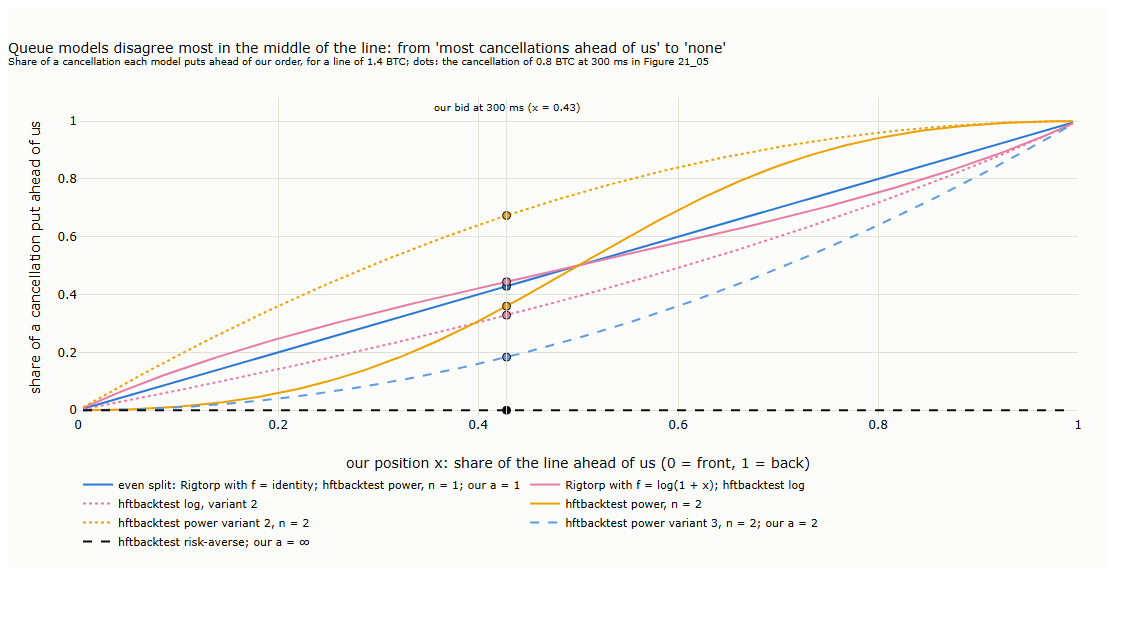
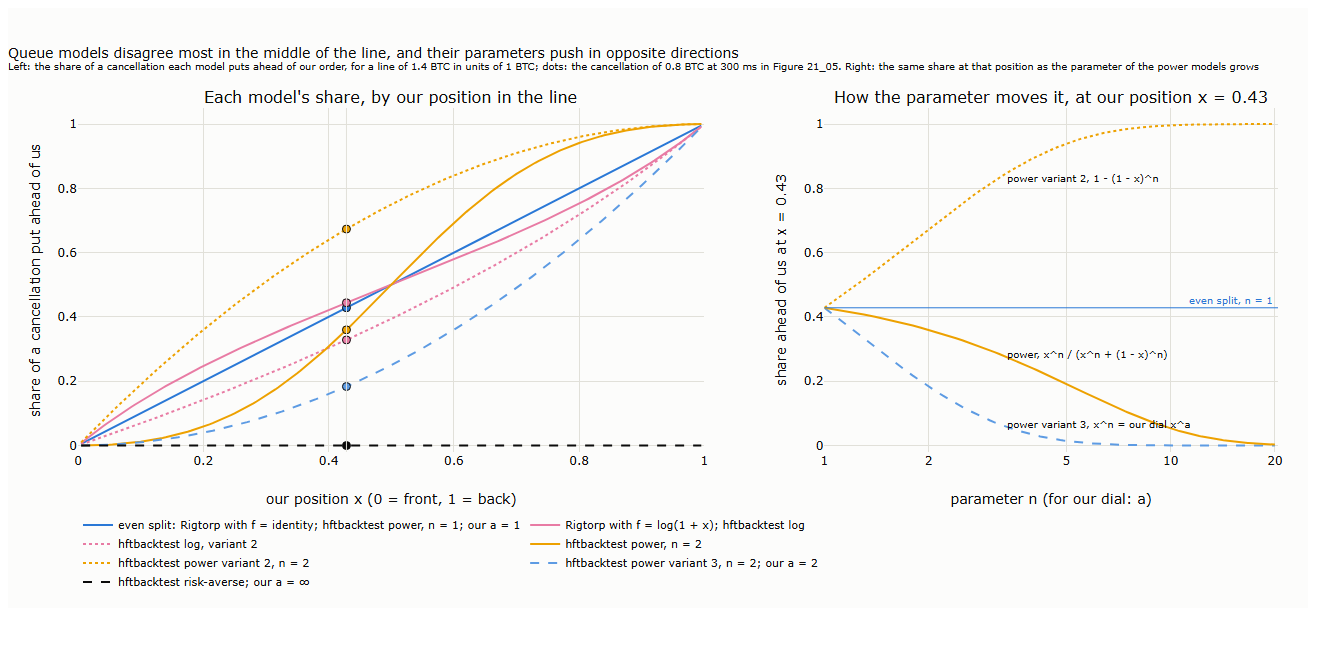
Lecture 21 §2.3: parameters of the queue models, replication check, join fix
- How each parameter moves the split (our a = hftbacktest power variant 3 n;
  power n; power variant 2 n; the unit of size as the hidden parameter of the
  log models), with a parameter panel in figure 21_06 and a units table.
- Replication on 3,000 random sequences (scripts/checks/test_models.py): a = 1
  equals Rigtorp (identity) and a = inf hftbacktest risk-averse in every case;
  x^a differs from hftbacktest power variant 3 in 1.8% of cases only because
  hftbacktest measures the size behind before the trades.
- l21.Bid: an order now joins behind the last update minus the sells at its
  price since (as stated in the text); checked on the hand example
  (scripts/checks/test_bid.py). §1 results recomputed: unchanged.

diff --git a/lectures/21-replaying-the-exchange/scripts/l21_s2_cards.py b/lectures/21-replaying-the-exchange/scripts/l21_s2_cards.py
@@ -187,18 +187,30 @@ MODELS = [  # (label, share ahead as a function of (front, back), colour, dash)
     ("hftbacktest power variant 3, n = 2; our a = 2", lambda f, b: (f / (f + b)) ** 2, "#5d9be3", "dash"),
     ("hftbacktest risk-averse; our a = ∞", lambda f, b: 0.0 if b > 0 else 1.0, INK, "dash"),
 ]
-fig = go.Figure()
+fig = make_subplots(rows=1, cols=2, column_widths=[0.58, 0.42], horizontal_spacing=0.1,
+                    subplot_titles=("Each model's share, by our position in the line", "How the parameter moves it, at our position x = 0.43"))
 xs = [i / 200 for i in range(1, 200)]
 for lab, fn, c, dash in MODELS:
-    fig.add_scatter(x=xs, y=[fn(x * LINE, (1 - x) * LINE) for x in xs], mode="lines", line=dict(color=c, width=2, dash=dash), name=lab)
+    fig.add_scatter(x=xs, y=[fn(x * LINE, (1 - x) * LINE) for x in xs], mode="lines", line=dict(color=c, width=2, dash=dash), name=lab, row=1, col=1)
     v = fn(0.6, 0.8)
-    fig.add_scatter(x=[0.6 / 1.4], y=[v], mode="markers", marker=dict(size=8, color=c, line=dict(width=1, color=INK)), showlegend=False)
+    fig.add_scatter(x=[0.6 / 1.4], y=[v], mode="markers", marker=dict(size=8, color=c, line=dict(width=1, color=INK)), showlegend=False, row=1, col=1)
     print(f"{lab}: share ahead {v:.3f}, size ahead after {0.6 - v * 0.8 + min(0.8 - (1 - v) * 0.8, 0):.3f}")
-fig.add_vline(x=0.6 / 1.4, line=dict(color=GRID, width=1))
-fig.add_annotation(x=0.6 / 1.4, y=1.02, text="our bid at 300 ms (x = 0.43)", showarrow=False, yanchor="bottom", font=dict(size=10, color=INK))
-fig.update_xaxes(title_text="our position x: share of the line ahead of us (0 = front, 1 = back)", range=[0, 1])
-fig.update_yaxes(title_text="share of a cancellation put ahead of us", range=[-0.02, 1.08])
-fig.update_layout(title="Queue models disagree most in the middle of the line: from 'most cancellations ahead of us' to 'none'"
-                        "<br><sup>Share of a cancellation each model puts ahead of our order, for a line of 1.4 BTC; dots: the cancellation of 0.8 BTC at 300 ms in Figure 21_05</sup>",
-                  height=560, width=1100, margin=dict(t=90, l=70, r=30, b=60), legend=dict(orientation="h", y=-0.17, x=0, font=dict(size=11)))
+fig.add_vline(x=0.6 / 1.4, line=dict(color=GRID, width=1), row=1, col=1)
+fig.update_xaxes(title_text="our position x (0 = front, 1 = back)", range=[0, 1], row=1, col=1)
+fig.update_yaxes(title_text="share of a cancellation put ahead of us", range=[-0.02, 1.05], row=1, col=1)
+# right (annotations on a log axis take log10 of x): the share at x = 0.43 against the parameter n (or a) of the three power families
+X0 = 0.6 / 1.4; ns = [1 + i / 10 for i in range(0, 191)]
+for lab, fn, c, dash in (("power variant 3, x^n = our dial x^a", lambda n: X0 ** n, "#5d9be3", "dash"),
+                         ("power, x^n / (x^n + (1 - x)^n)", lambda n: X0 ** n / (X0 ** n + (1 - X0) ** n), SERIES[4], "solid"),
+                         ("power variant 2, 1 - (1 - x)^n", lambda n: 1 - (1 - X0) ** n, SERIES[4], "dot")):
+    fig.add_scatter(x=ns, y=[fn(n) for n in ns], mode="lines", line=dict(color=c, width=2, dash=dash), showlegend=False, row=1, col=2)
+    fig.add_annotation(x=math.log10(3.2), y=fn(3.2), text=lab, showarrow=False, xanchor="left", xshift=6, font=dict(size=10, color=INK), row=1, col=2)
+fig.add_hline(y=X0, line=dict(color=SERIES[0], width=1), row=1, col=2)
+fig.add_annotation(x=math.log10(20), y=X0, text="even split, n = 1", showarrow=False, xanchor="right", yanchor="bottom", font=dict(size=10, color=SERIES[0]), row=1, col=2)
+fig.update_xaxes(title_text="parameter n (for our dial: a)", type="log", tickvals=[1, 2, 5, 10, 20], range=[0, 1.31], row=1, col=2)
+fig.update_yaxes(title_text="share ahead of us at x = 0.43", range=[-0.02, 1.05], row=1, col=2)
+fig.update_layout(title="Queue models disagree most in the middle of the line, and their parameters push in opposite directions"
+                        "<br><sup>Left: the share of a cancellation each model puts ahead of our order, for a line of 1.4 BTC in units of 1 BTC; dots: the cancellation "
+                        "of 0.8 BTC at 300 ms in Figure 21_05. Right: the same share at that position as the parameter of the power models grows</sup>",
+                  height=600, width=1300, margin=dict(t=100, l=70, r=30, b=60), legend=dict(orientation="h", y=-0.17, x=0, font=dict(size=11)))
 save_figure(fig, L21.PREFIX + "21_06_queue_models", FIG)

diff --git a/lectures/21-replaying-the-exchange/scripts/checks/test_models.py b/lectures/21-replaying-the-exchange/scripts/checks/test_models.py
@@ -1,0 +1,69 @@
+"""Our queue rule (l21.Bid) against the published update rules, written literally, on random event sequences at one price.
+hftbacktest queue.rs: trade: front -= qty; cum += qty. Depth change: chg = prev - new - cum; cum = 0; if chg < 0: front = min(front, new);
+else: prob = share BEHIND; est = front - (1 - prob) chg + min(back - prob chg, 0); front = min(est, new). RiskAverse: front = min(front, new).
+Fill when a trade leaves front < 0. PowerProbQueueFunc3: prob = 1 - (front / (front + back)) ** n.
+Rigtorp (2013): fills V = max(V + dQ, 0); other decreases V = max(V + p dQ, 0), p = f(V) / (f(V) + f(max(Q - S - V, 0))), f = identity."""
+import sys, random, numpy as np, polars as pl
+sys.path.insert(0, sys.argv[1]); import l21 as L21
+P = 1_000_000
+
+
+def hft(events, q0, n, after_trades=False):
+    front, prev, cum = q0, q0, 0.0
+    for t, kind, v in events:
+        if kind == "t":
+            front -= v; cum += v
+            if front < -1e-12: return t
+        else:
+            chg = prev - v - cum; cum_seen = cum; cum = 0.0
+            if chg < 0: front = min(front, v)
+            else:
+                back = prev - front - (cum_seen if after_trades else 0.0)
+                if n == "ra": front = min(front, v)
+                else:
+                    prob = 1 - (front / (front + back)) ** n if front + back > 0 else 1.0
+                    front = min(front - (1 - prob) * chg + min(back - prob * chg, 0), v)
+            prev = v
+    return None
+
+
+def rigtorp(events, q0):
+    """V: size ahead; Q: size displayed after the trades so far (our order not in it, so Q - S - V = Q - V)."""
+    V, Q = q0, q0
+    for t, kind, v in events:
+        if kind == "t":
+            if v > V + 1e-12: return t
+            V = max(V - v, 0); Q -= v
+        else:
+            dQ = v - Q
+            if dQ < 0:
+                p = V / (V + max(Q - V, 0)) if Q > 0 else 1.0
+                V = max(V + p * dQ, 0)
+            Q = v
+    return None
+
+
+random.seed(1); bad = {1.0: 0, 2.0: 0, 5.0: 0, np.inf: 0, "rig": 0}; bad2 = {1.0: 0, 2.0: 0, 5.0: 0}; N = 3000
+for k in range(N):
+    q0 = round(random.uniform(0.2, 5), 3); level, t, ev = q0, 100, []
+    for _ in range(random.randint(3, 25)):
+        t += random.randint(1, 99)
+        if random.random() < 0.5:
+            s = round(random.uniform(0.001, 0.6) * random.choice([0.2, 1, 3]), 3); ev.append((t, "t", s)); level -= s
+        else:
+            t = (t // 100 + 1) * 100; level = max(round(level + random.uniform(-1.5, 1.2), 3), 0.0); ev.append((t, "u", level))
+        if level < 0: break
+    trades = [(t, s) for t, k_, s in ev if k_ == "t"]; ups = [(t, s) for t, k_, s in ev if k_ == "u"]
+    B = pl.DataFrame({"cts": [0] + [t for t, _ in ups], "tick": [P] * (len(ups) + 1), "size": [q0] + [s for _, s in ups]}, schema={"cts": pl.Int64, "tick": pl.Int64, "size": pl.Float64})
+    T = pl.DataFrame({"ts": [t for t, _ in trades], "side": [-1] * len(trades), "tick": [P] * len(trades), "size": [s for _, s in trades]},
+                     schema={"ts": pl.Int64, "side": pl.Int64, "tick": pl.Int64, "size": pl.Float64})
+    S = pl.DataFrame({"ts": [0], "bid": [P], "ask": [P + 1]})
+    # keep only events up to the first level that the trades would push below zero (inconsistent data)
+    for a in (1.0, 2.0, 5.0, np.inf):
+        ours = L21.Bid(B, T, S, 40, L=10, a=a, hold=10_000).q2
+        ref = hft(ev, q0, "ra" if a == np.inf else a)
+        if ours != ref: bad[a] += 1
+        if a != np.inf and ours != hft(ev, q0, a, after_trades=True): bad2[a] += 1
+    if L21.Bid(B, T, S, 40, L=10, a=1.0, hold=10_000).q2 != rigtorp(ev, q0): bad["rig"] += 1
+print(f"{N} random sequences; disagreements with the code as published:", bad)
+print("with hftbacktest's size behind measured after the trades:", bad2)

diff --git a/lectures/21-replaying-the-exchange/scripts/l21.py b/lectures/21-replaying-the-exchange/scripts/l21.py
@@ -59,13 +59,14 @@ class Bid:
         lv = np.nonzero(btk == self.p)[0]; k0 = np.searchsorted(bc[lv], self.ta, "right") - 1
         self.ok = k0 >= 0
         if not self.ok: return
-        self.q = float(bsz[lv[k0]])                                                # displayed size when we join
-        ups = lv[k0 + 1:]; ups = ups[bc[ups] <= self.ta + hold]
         tt, ts_, tk, tz = (T[c].to_numpy() for c in ("ts", "side", "tick", "size"))
+        pre = float(tz[(tt > bc[lv[k0]]) & (tt <= self.ta) & (ts_ == -1) & (tk == self.p)].sum())   # sold at our price since that update
+        self.q = max(float(bsz[lv[k0]]) - pre, 0.0)                               # displayed size when we join: last update minus trades since
+        ups = lv[k0 + 1:]; ups = ups[bc[ups] <= self.ta + hold]
         tr = np.nonzero((tt > self.ta) & (tt <= self.ta + hold) & (ts_ == -1) & (tk <= self.p))[0]
         self.q0 = int(tt[tr[0]]) if len(tr) else None
         thr = [j for j in tr if tk[j] < self.p]; self.q1 = int(tt[thr[0]]) if thr else None
-        self.q2 = None; V, qlev, tsum = self.q, self.q, 0.0; path = [(self.ta, V, qlev)]
+        self.q2 = None; V, qlev, tsum = self.q, float(bsz[lv[k0]]), pre; path = [(self.ta, V, self.q)]
         for t, kind, j in sorted([(tt[j], 0, j) for j in tr] + [(bc[u], 1, u) for u in ups]):
             if kind == 0:
                 if tk[j] < self.p or tz[j] > V: self.q2 = int(t); break

diff --git a/lectures/21-replaying-the-exchange/scripts/checks/test_bid.py b/lectures/21-replaying-the-exchange/scripts/checks/test_bid.py
@@ -1,0 +1,12 @@
+"""Check the replay (l21.Bid) on the invented example of cards 2.1 and 2.3, where the answers are known by hand."""
+import sys, numpy as np, polars as pl
+sys.path.insert(0, sys.argv[1]); import l21 as L21
+P = 1_000_000                                                           # USD 100,000.0 in ticks
+B = pl.DataFrame({"cts": [0, 100, 200, 300], "tick": [P] * 4, "size": [2.0, 1.2, 1.6, 0.6]})
+T = pl.DataFrame({"ts": [30, 70, 130, 250, 340, 420], "side": [-1] * 6, "tick": [P] * 5 + [P - 1], "size": [0.3, 0.2, 0.4, 0.2, 0.5, 0.3]})
+S = pl.DataFrame({"ts": [0, 100, 200, 300], "bid": [P] * 4, "ask": [P + 1] * 4})
+expect = {1.0: 340, 2.0: 340, np.inf: 420}
+for a, tf in expect.items():
+    o = L21.Bid(B, T, S, 10, L=50, a=a, hold=1000)
+    path = [(t, round(v, 3)) for t, v, _ in o.path]
+    print(f"a={a}: joined behind {o.q} (hand: 1.7), q0 {o.q0} (hand: 70), q2 {o.q2} (hand: {tf}), q1 {o.q1} (hand: 420)", path)

diff --git a/lectures/21-replaying-the-exchange/lecture.md b/lectures/21-replaying-the-exchange/lecture.md
@@ -176,10 +176,30 @@ The touch rule fills the bid 270 ms before any version of the line would, while 
 <sub><b>How to read the table.</b> Ahead and behind: the size in the line in front of our order and after it, in BTC; $`x`$ = ahead / (ahead + behind), our position (0 at the front, 1 at the back). Rigtorp (2013) writes the share ahead as $`p = f(\text{ahead}) / (f(\text{ahead}) + f(\text{behind}))`$ with $`f`$ any increasing function, naming the identity and $`\ln(1 + x)`$. hftbacktest (queue.rs) writes the share behind, $`1 - p`$; its power functions are $`f(x) = x^n`$, its variants 2 and 3 normalise differently. hftbacktest, like our replay, takes the excess from ahead of us when a cancellation is larger than the size behind, and never lets the size ahead exceed the size displayed; Rigtorp (2013) states no such rule. Last column: the cancellation of 0.8 BTC at 300 ms in Figure 21_05, with 0.6 BTC ahead and 0.8 behind.</sub>
 
 ![The queue models of the literature side by side: the share of a cancellation each puts ahead of our order, by position in the line](figures/21_06_queue_models.png)
-<sub><b>How to read the figure.</b> For a line of 1.4 BTC, the share of a cancellation each model of the table puts ahead of our order, against our position $`x`$. Lines above the even split (blue) let our order advance faster than an even split; lines below hold it back. The dots mark the cancellation at 300 ms of Figure 21_05.</sub>
+<sub><b>How to read the figure.</b> <b>Left:</b> for a line of 1.4 BTC counted in BTC, the share of a cancellation each model of the table puts ahead of our order, against our position $`x`$. Lines above the even split (blue) let our order advance faster than an even split; lines below hold it back. The dots mark the cancellation at 300 ms of Figure 21_05. <b>Right:</b> at that position, $`x = 0.43`$, the share ahead under the three power models as their parameter $`n`$ grows from 1 to 20 (log scale); for our dial, $`n`$ is $`a`$.</sub>
 
-On the same cancellation the models leave between 0.06 and 0.60 BTC ahead of our order, a factor of ten. Two properties separate them. The first is the leaning: an even split; towards whichever side of us is longer (hftbacktest power), or shorter (log); towards the front (power variant 2, optimistic for us); or towards the back (power variant 3 and risk-averse, cautious for us). The second is units: the log models give different answers if size is counted in BTC or in contracts, because $`\ln(1 + x)`$ is not proportional; the power models and our dial depend only on the position $`x`$.
+On the same cancellation the models leave between 0.06 and 0.60 BTC ahead of our order, a factor of ten. What separates them is their leaning: an even split; towards whichever side of us is longer (hftbacktest power) or shorter (log); towards the front, which is optimistic for us (power variant 2); or towards the back, which is cautious (power variant 3 and risk-averse).
 
-None of these formulas is derived from the behaviour of traders; each is a convenient shape, and Rigtorp (2013) recommends estimating $`f`$ from one's own fills. Evidence comes only from order-by-order data. Databento (2025) used such data for CME's E-mini S&P 500 future and concluded: "It's evident that cancels are mostly pulled from the back of the queue." They describe the bias with one parameter, from no bias towards a strong pull from the back; the formula in their example code is not legible on the page we read, so we quote only their conclusion. One reason for the back, an argument rather than a measurement: an order that has just joined has the least to lose by leaving, while an order near the front is about to be filled. On Bybit we cannot measure the leaning (no order-by-order data), so the lecture spans it with the dial $`a`$ from 1 to ∞, from the even split to the risk-averse model, and reports whether the answer changes inside that range (hypothesis H3); the optimistic models, which lean ahead of us, are left out.
+**How the parameters move the split.** Each family has one parameter, and in each it does something different:
+
+- **Our dial $`a`$, the same as $`n`$ in hftbacktest's power variant 3.** The share ahead is $`x^a`$. Raising $`a`$ means assuming that cancellations come more and more from the late arrivals behind us: at our position $`x = 0.43`$, the share ahead falls from 43% ($`a = 1`$) to 18% ($`a = 2`$), 1.5% ($`a = 5`$) and practically 0 ($`a = 20`$). The effect is strongest near the front of the line; near the back every value of $`a`$ puts almost everything ahead of us, because almost nobody stands behind.
+- **$`n`$ in hftbacktest's power model, $`x^n / (x^n + (1 - x)^n)`$.** Raising $`n`$ hands the cancellation to whichever side of us is longer, as if cancellations came from large groups out of proportion to their size. With more size behind us than ahead, as here, it falls from 43% to 36%, 19% and 0.3% for $`n`$ = 1, 2, 5 and 20; with more ahead it would rise instead. The split is even only when we stand in the middle.
+- **$`n`$ in hftbacktest's power variant 2, $`1 - (1 - x)^n`$.** Raising $`n`$ puts more of every cancellation ahead of us: 43%, 67%, 94% and 100%. This is the optimistic direction, and the one the evidence below argues against.
+- **The unit of size, in the log models.** $`\ln(1 + x)`$ has no parameter, but it is not proportional, so the answer depends on whether size is counted in BTC, in thousandths of a BTC or in contracts. The unit is a hidden parameter:
+
+| Size counted in | Rigtorp, log; hftbacktest log | hftbacktest log, variant 2 |
+|---|---|---|
+| 10 BTC | 43% | 41% |
+| 1 BTC | 44% | 33% |
+| 0.01 BTC | 48% | 11% |
+| 0.001 BTC, Bybit's minimum order | 49% | 8% |
+
+<sub><b>How to read the table.</b> The share of the cancellation at 300 ms put ahead of our order (0.6 BTC ahead, 0.8 behind, $`x = 0.43`$) by the two log models, with size counted in different units. For comparison, the even split puts 43% ahead at any unit.</sub>
+
+In small units, the first log model puts about half of every cancellation ahead of us wherever we stand (41% at $`x = 0.1`$, 59% at $`x = 0.9`$, counted in 0.001 BTC), and variant 2 puts almost none. Rigtorp suggests the log as an example, not a recommendation, and the unit should be chosen deliberately or the model avoided.
+
+**Do we reproduce them?** We use three of the models and checked our code against their published rules on 3,000 random sequences of trades and book updates. Our $`a = 1`$ gives the same fill as Rigtorp's rule with $`f`$ = identity in every sequence, and our $`a = \infty`$ the same as hftbacktest's risk-averse model. Our $`x^a`$ is the formula of hftbacktest's power variant 3, and gives the same fill except in 1.8% of the sequences at $`n = 1`$ (0.6% at $`n = 2`$). The difference is one detail of hftbacktest's code: it measures the size behind us from the level before the trades since the last update, so size already traded still counts as behind us. Measured after the trades, as Rigtorp and we do, the two agree in every sequence. The check is our calculation for these notes.
+
+**Which is right?** None of these formulas is derived from the behaviour of traders; each is a convenient shape, and Rigtorp (2013) recommends estimating $`f`$ from one's own fills. Evidence comes only from order-by-order data. Databento (2025) used such data for CME's E-mini S&P 500 future and concluded: "It's evident that cancels are mostly pulled from the back of the queue." They describe the bias with one parameter, from no bias towards a strong pull from the back; the formula in their example code is not legible on the page we read, so we quote only their conclusion. One reason for the back, an argument rather than a measurement: an order that has just joined has the least to lose by leaving, while an order near the front is about to be filled. On Bybit we cannot measure the leaning (no order-by-order data), so the lecture spans it with the dial $`a`$ from 1 to ∞, from the even split to the risk-averse model, and reports whether the answer changes inside that range (hypothesis H3); the models that lean ahead of us, against that evidence, are left out.
 
 **What it misses.** First, the truth: which orders were cancelled is recorded only in order-by-order (L3) data, which Bybit does not publish (Lecture 18, §2), so on our data the dial can be varied but not measured. Second, the split may depend on more than our position: on how long the line is, on how fast the price is moving, on the hour (Lecture 19, §3.7). Third, everything inside one 100 ms update (§2.1): a large order that joins and leaves within it is never seen. Fourth, our own order is not in the displayed size, so the line behind us is the size added after we joined, not including us; for an order of 0.001 BTC this changes nothing, for 5 BTC it does (§2.5).
